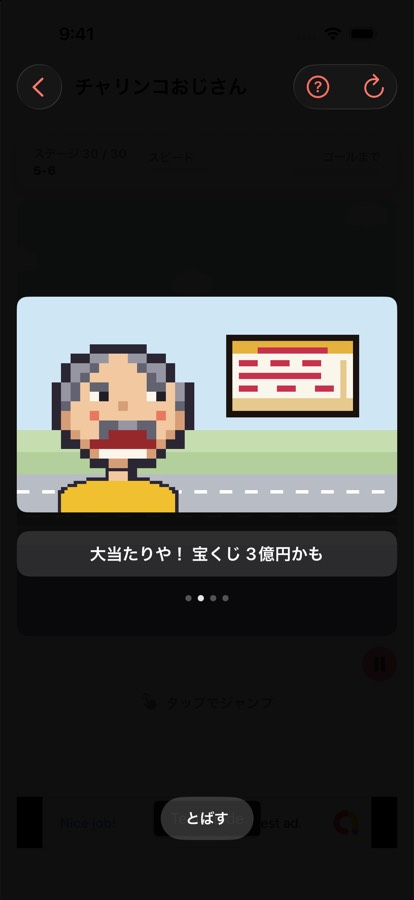
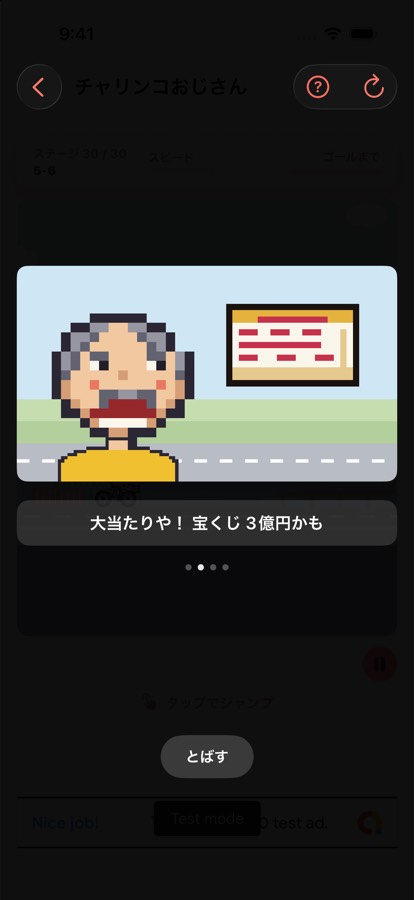
fix(runner): 始まりの取りこぼしとアクセシビリティの穴を塞ぐ（#1092 の verifier 検証）
敵対的検証（verifier）で見つかった分:

- 始まりの最中でもツールバーの「はじめから」は押せるので、開始シートを開く
  ときに introScene を畳む。畳まないと開始シートの下に始まりが残り、閉じた
  拍子に開始シートがもう一度開いた（締めを resetRun で落とすのと同じ手当て）
- 締めの最中は一時停止ボタンを押せなくする（押しても無反応だった）
- 締めの最中のコースのヒントが「ダブルタップでジャンプ」を名乗っていたのを直す
- オーバーレイに .isModal を付け、VoiceOver が背後のコースへ回り込まないようにする
- 「とばす」ボタンをバナーの帯の上へ。幕がタップを受け切るので広告が誤って
  押されることはないが、押すボタンを広告の真上に重ねない
- 死んだコードを 2 つ落とす（tick の .story ガードは isRunning が受け持つ／
  未使用の accessibilityReduceMotion。Reduce Motion 追従は gameAnimation 側）

Changed region(s): [[0.029, 0.28, 0.9855, 0.6844], [0.3768, 0.8089, 0.6087, 0.9333]]

diff --git a/Packages/GameKit/Sources/GameRunner/RunnerStoryView.swift b/Packages/GameKit/Sources/GameRunner/RunnerStoryView.swift
@@ -20,7 +20,6 @@ struct RunnerStoryView: View {
     var frozenPanel: Int?
 
     @State private var index = 0
-    @Environment(\.accessibilityReduceMotion) private var reduceMotion
 
     private var panels: [RunnerStoryPanel] { scene.panels }
     private var panel: RunnerStoryPanel { panels[min(index, panels.count - 1)] }
@@ -59,7 +58,10 @@ struct RunnerStoryView: View {
                     .padding(.horizontal, 24)
                     .padding(.vertical, 12)
                     .background(Capsule().fill(Color.white.opacity(0.18)))
-                    .padding(.bottom, 24)
+                    // 画面の最下部はバナー（`BannerSlot`）の帯なので、その上に置く。
+                    // 幕がタップを受け切るので広告が誤って押されることはないが、
+                    // 押すボタンを広告の真上に重ねない。
+                    .padding(.bottom, 84)
                     .accessibilityHint("このおはなしを最後まで飛ばします")
             }
             .gameAnimation(.easeInOut(duration: 0.28), value: index)
@@ -67,6 +69,9 @@ struct RunnerStoryView: View {
         // 絵と台詞は装飾ではなく「今読むべきもの」なので、まとめて 1 つの読み上げにする。
         .accessibilityElement(children: .contain)
         .accessibilityLabel("\(scene.title)。\(panel.line)")
+        // 画面を覆っているあいだ、VoiceOver が背後のコース・ヘッダーへ回り込まないようにする
+        // （シートと同じ扱い。回り込めると「ダブルタップでジャンプ」など効かない操作に触れる）。
+        .accessibilityAddTraits(.isModal)
         // ボタンの外側はどこを押しても飛ばせる（ボタン自身のタップはボタンが先に取る）。
         .contentShape(Rectangle())
         .onTapGesture(perform: onFinish)

diff --git a/Packages/GameKit/Sources/GameRunner/RunnerView.swift b/Packages/GameKit/Sources/GameRunner/RunnerView.swift
@@ -361,9 +361,9 @@ public struct RunnerView: View {
         }
         .buttonStyle(.pop)
         .accessibilityLabel(model.phase == .paused ? "再開" : "一時停止")
-        // 止めるものが無い状態では押せない。
+        // 止めるものが無い状態では押せない（締めの演出中 `.story` も同じ・#1092）。
         .disabled(
-            model.phase.isSettling || model.phase == .failed
+            model.phase.isSettling || model.phase == .story || model.phase == .failed
                 || model.phase == .cleared || model.phase == .allCleared
         )
     }
@@ -371,6 +371,12 @@ public struct RunnerView: View {
     /// 開始シート（`RunnerStartSheet`）を、選んでおくモードと面を決めて開く。
     /// ツールバーの「はじめから」の経路（#1027。「マップ」導線はカードごと廃止した）。
     private func openStartSheet(mode: RunnerMode, stage: Int) {
+        // 始まり（#1092）の最中でもツールバーの「はじめから」は押せる（ナビバーはオーバーレイの
+        // 外にある）。ここで畳まないと、開始シートの下に始まりが残り、シートを閉じたあとに
+        // オーバーレイが出てきて、閉じた拍子に開始シートがもう一度開く。締めを `resetRun` で
+        // 落としているのと同じ手当て。見た印は消費済みだが、開始シートの「おはなし」から
+        // いつでも見返せる。
+        introScene = nil
         selectedMode = mode
         selectedStage = stage
         showStartSheet = true

diff --git a/Packages/GameKit/Sources/GameRunner/RunnerAccessibility.swift b/Packages/GameKit/Sources/GameRunner/RunnerAccessibility.swift
@@ -98,8 +98,14 @@ public enum RunnerAccessibility {
     ///
     /// ゴールの演出中（`.chasing`・#1092）だけは**ジャンプではなく演出を飛ばす**操作になるので、
     /// ヒントの文言も入れ替える（`RunnerModel.press` の分岐と 1:1）。
+    /// 世界の締め（`.story`・#1092）も同じくジャンプにはならない。あちらはオーバーレイ側が
+    /// 「とばす」ボタンを持つので、コースのヒントは何も起きないことだけを言う。
     public static func courseHint(phase: RunnerPhase) -> String {
-        phase == .chasing ? "ダブルタップで演出をスキップ" : "ダブルタップでジャンプ"
+        switch phase {
+        case .chasing: return "ダブルタップで演出をスキップ"
+        case .story:   return "おはなしを表示中です"
+        default:       return "ダブルタップでジャンプ"
+        }
     }
 
     /// ミス・クリアの結果。

diff --git a/Packages/GameKit/Tests/GameRunnerTests/StoryTests.swift b/Packages/GameKit/Tests/GameRunnerTests/StoryTests.swift
@@ -240,6 +240,15 @@ struct RunnerStoryTests {
         #expect(model.phase == .story, "一時停止が効いてしまった")
     }
 
+    @Test("締めの最中はコースのヒントが「ジャンプ」を名乗らない")
+    func theCourseHintChangesDuringTheEnding() {
+        // ここでのダブルタップはジャンプにならない（飛ばすのはオーバーレイの「とばす」）。
+        #expect(RunnerAccessibility.courseHint(phase: .story) == "おはなしを表示中です")
+        // 他の局面の文言は変えていない（#1121 の約束）。
+        #expect(RunnerAccessibility.courseHint(phase: .chasing) == "ダブルタップで演出をスキップ")
+        #expect(RunnerAccessibility.courseHint(phase: .running) == "ダブルタップでジャンプ")
+    }
+
     // MARK: 4. 絵
 
     @Test("どのコマも 1 枚の格子に焼き込まれ、寸法が揃っていてパレットに無い文字が無い")

diff --git a/Packages/GameKit/Sources/GameRunner/RunnerModel.swift b/Packages/GameKit/Sources/GameRunner/RunnerModel.swift
@@ -312,8 +312,8 @@ public final class RunnerModel {
             if fallElapsed >= RunnerRules.fallDuration { phase = .failed }
             return
         }
-        // 締めの演出中（#1092）はコマ送りを View が持つので、時間では何も進めない。
-        if phase == .story { return }
+        // 締めの演出中（`.story`・#1092）は下の `guard phase.isRunning` が止める
+        // ——コマ送りは View が持つので、時間では何も進めない。
         if phase == .chasing {
             #if DEBUG
             // 演出の途中を撮る（`-simulateRunner chasing`）あいだは進みも止める。見た目は
